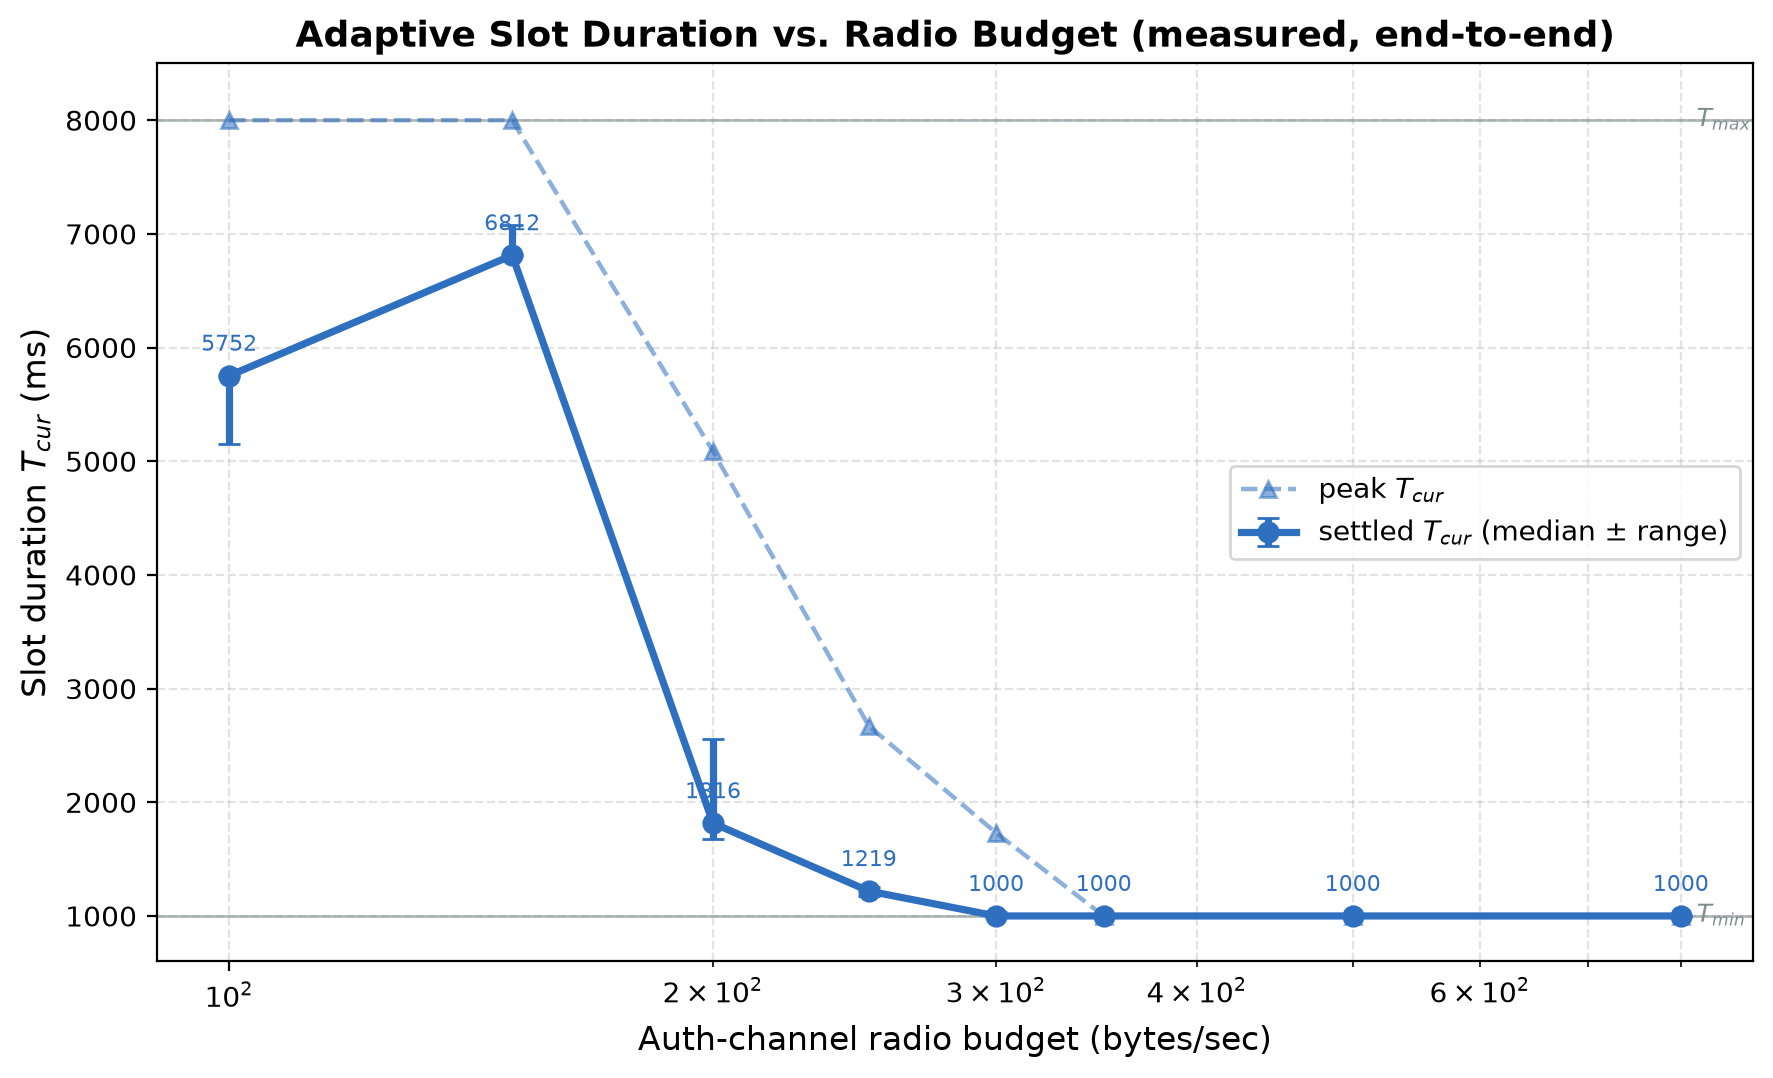
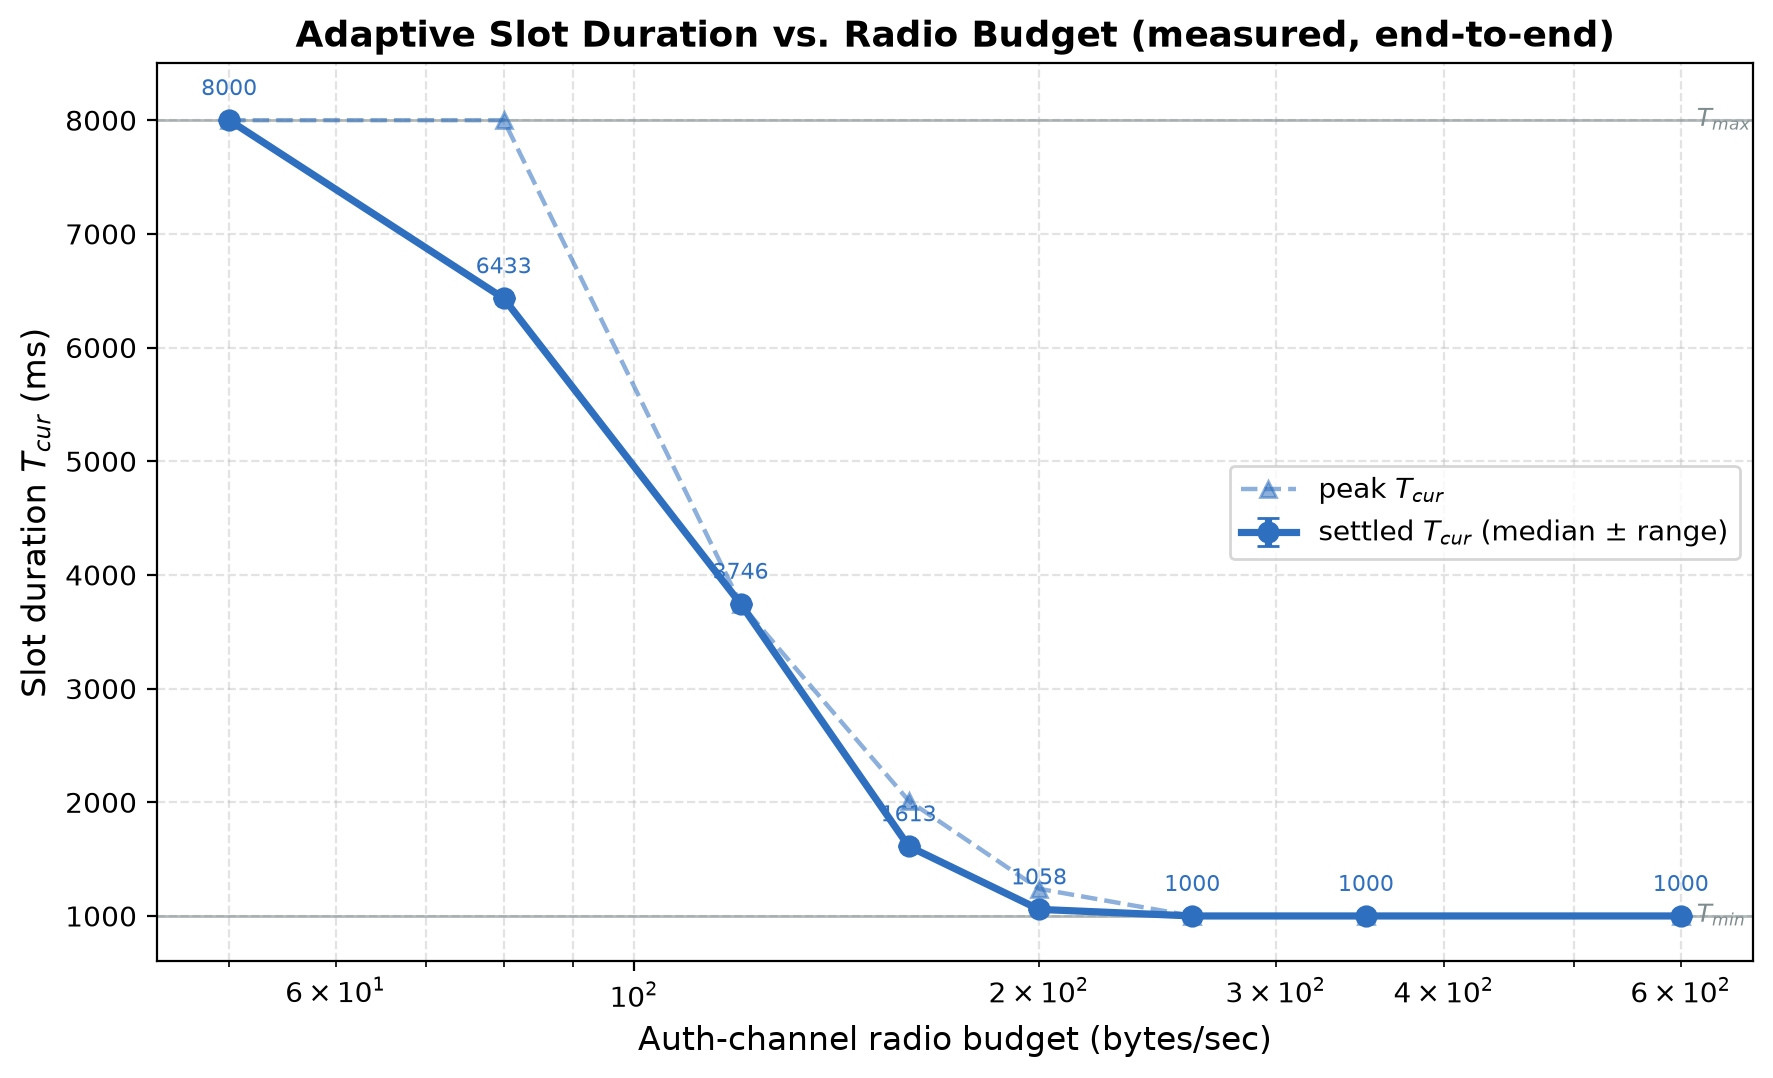
paper: refresh results for the HMAC-on-control-plane fix
Re-sweep after routing the HMAC onto the control plane and metering only the key
disclosure. Premature rejections are now zero at every budget (the 350 B/s
artifact is fixed, not just documented). The transition knee shifts to lower
budgets, so the sweep is re-run over 50-600 B/s: saturated <=80, proportional
120-200 (Tcur 3746->1058), idle >=260 at Tmin, backlog bounded near the target
except in saturation, verified degrading gracefully to a residue at the starved
end. Update Table I, Figs 1-4, the results prose and captions, the Implementation
section (disclosure-channel metering + HMAC control plane), and drop the
now-fixed congestion-knee limitation and its future-work item.

diff --git a/paper/prob-adaptive-inf-tesla.tex b/paper/prob-adaptive-inf-tesla.tex
@@ -396,14 +396,19 @@ bindings; all existing functions are untouched, so a non-adaptive deployment is
 unchanged.
 
 To characterize the controller against the resource whose overflow actually
-destroys authentication, the implementation models a shared but budget-limited
-radio. Authentication traffic (HMACs and key disclosures) is transmitted over a
-throttled path limited to a configurable byte rate, while application data is
-carried on an unthrottled plane; the throttle serializes authentication sends and
-blocks each for its modelled transmission time. This isolates the disclosure
-pipeline as the bottleneck the controller relieves and makes the radio budget the
-single independent variable, with no dependence on operating-system traffic
-shaping.
+destroys authentication, the implementation models a budget-limited radio and
+meters the \emph{key-disclosure} channel: each disclosure (the Bloom filter plus
+key, the bandwidth-heavy object whose loss is irrecoverable) is transmitted over
+a throttled path limited to a configurable byte rate, and the throttle serializes
+disclosure sends and blocks each for its modelled transmission time. The small
+per-slot batch-commitment HMAC and the application data ride an unthrottled
+control plane. Keeping the HMAC prompt matters for measurement fidelity: the
+receiver's timing guard (Theorem~1) starts its wall-clock
+stopwatch when it receives a batch's HMAC, so if the HMAC were queued behind a
+large disclosure it would arrive late and spuriously compress the observed
+HMAC-to-disclosure interval. Metering only the disclosure channel isolates the
+pipeline the controller relieves, makes the radio budget the single independent
+variable, and removes any dependence on operating-system traffic shaping.
 
 \subsection{Experimental Setup}
 Every measurement runs the complete system: a local Ethereum node, the consortium
@@ -414,7 +419,7 @@ traffic, so a single node exercises both the sender-side controller and the
 receiver-side checks.
 
 We sweep the authentication-channel radio budget $B$ (bytes/second) over
-$\{100,150,200,250,300,350,500,800\}$. For each budget the RCD runs for $90$\,s
+$\{50,80,120,160,200,260,350,600\}$. For each budget the RCD runs for $90$\,s
 at an application message rate of $50$\,msg/s, with $T_{\min}=1000$\,ms,
 $T_{\max}=8000$\,ms, disclosure delay $d=2$, target $C^{\ast}=0.5$, gain
 $\alpha=0.25$, capacity $Q_{\mathrm{cap}}=8$, and hash-chain length $512$. Each
@@ -429,17 +434,17 @@ slots, robust to the ramp and to the controller's limit cycle).
 \subsection{Slot Duration Tracks the Bottleneck}
 Figure~\ref{fig:slot} plots the steady-state and peak slot duration against the
 radio budget, and Table~\ref{tab:results} lists the values. Three regimes are
-visible. In the \emph{saturated} regime ($B\lesssim 150$\,B/s) the peak slot pins
-at the $T_{\max}=8000$\,ms ceiling: even the longest admissible slot cannot make
-the authentication path keep up. In the \emph{proportional} regime ($200\le B\le
-300$\,B/s) the slot duration falls monotonically as the budget grows---the
-controller sets a graded operating point, the direct evidence that the toggle
-responds to load. In the \emph{idle} regime ($B\gtrsim 300$\,B/s) the slot rests
-at the $T_{\min}=1000$\,ms floor, since the radio drains disclosures faster than
-slots produce them. The steady-state curve dips slightly below the peak at the two
-lowest budgets; this is a finite-run effect (at $8$\,s slots a $90$\,s run
-contains few control ticks), and the peak curve confirms both points reach the
-ceiling.
+visible. In the \emph{saturated} regime ($B\lesssim 80$\,B/s) the slot pins at the
+$T_{\max}=8000$\,ms ceiling: even the longest admissible slot cannot make the
+disclosure channel keep up. In the \emph{proportional} regime ($120\le B\le
+200$\,B/s) the slot duration falls monotonically and smoothly as the budget grows,
+from $3746$\,ms down to $1058$\,ms---the controller sets a graded operating point,
+the direct evidence that the toggle responds to load. In the \emph{idle} regime
+($B\gtrsim 260$\,B/s) the slot rests at the $T_{\min}=1000$\,ms floor, since the
+radio drains disclosures faster than slots produce them. The steady-state and peak
+curves nearly coincide, and the three independent runs at each budget agree to
+within a few percent (Table~\ref{tab:results} reports the medians), so the
+characteristic is stable and repeatable.
 
 \begin{figure}[t]
 \centering
@@ -452,13 +457,14 @@ when the budget is ample. Markers are medians of three runs; bars show the range
 \end{figure}
 
 \subsection{The Backlog Stays Bounded}
-Figure~\ref{fig:backlog} plots the disclosure backlog. For every budget at which
-authentication is viable, the backlog remains a small multiple of the controller
-target ($Q_{\mathrm{cap}}/2=4$) and well under the device buffer: the loop caps
-the queue instead of letting it grow without bound. Only at the starved end
-($B=100$\,B/s) does the backlog climb to $14$--$23$ objects, beyond
-$Q_{\mathrm{cap}}$, because no slot length can balance production and drainage
-there. That point marks the protocol's stability boundary.
+Figure~\ref{fig:backlog} plots the disclosure backlog. Across the proportional and
+idle regimes the backlog holds right at the controller target
+($Q_{\mathrm{cap}}/2=4$) or below, well under the device buffer: the loop caps the
+queue instead of letting it grow without bound. Only in the saturated regime
+($B\le 80$\,B/s) does the backlog climb past $Q_{\mathrm{cap}}$ (to $10$--$12$
+objects), because no slot length can balance production and drainage there. The
+knee near $80$--$120$\,B/s therefore marks the protocol's stability boundary:
+to its right the queue is controlled, to its left it overflows.
 
 \begin{figure}[t]
 \centering
@@ -470,26 +476,26 @@ at the starved $100$\,B/s point, where even $T_{\max}$ cannot drain it.}
 \end{figure}
 
 \subsection{Authentication Survives to a Budget Floor}
-Figure~\ref{fig:verif} reports receiver outcomes. Above the stability boundary,
-verification is healthy (hundreds of messages per run at $500$--$800$\,B/s). As
-the budget tightens through the transition the verified count declines but stays
-positive, and at the starved $100$\,B/s point it collapses to zero: the
-authentication path is so throttled that disclosures cannot reach the receiver
-within its timing window, which is exactly the permanent-loss failure the fixed
-timer cannot avoid. Premature rejections are negligible everywhere except a single
-spike at $350$\,B/s; as explained in Section~\ref{sec:discussion} this reflects the
-receiver's wall-clock timing guard correctly rejecting disclosures that the
-marginally provisioned authentication channel delivered too close to their HMACs,
-not a forgery.
+Figure~\ref{fig:verif} reports receiver outcomes. Above the stability boundary
+verification is healthy---hundreds of messages per run at $260$--$600$\,B/s. As
+the budget tightens through the transition the verified count declines
+monotonically and, in the saturated regime, degrades sharply to a small residue
+($15$--$17$ messages per run at $50$--$80$\,B/s): the disclosure channel is so
+throttled that most batches' evidence cannot reach the receiver within its timing
+window, which is the permanent-loss failure the fixed timer cannot avoid.
+Premature rejections are \emph{zero at every budget}: because the batch HMAC is
+delivered promptly on the control plane, the receiver's wall-clock timing guard
+sees each key disclosure at the intended $d$-slot spacing and never mistakes an
+honest disclosure for an early one.
 
 \begin{figure}[t]
 \centering
 \includegraphics[width=\columnwidth]{figures/fig_verification.png}
 \caption{Receiver verification outcomes versus radio budget. Verified messages are
-plentiful when the budget is ample, decline through the transition, and vanish at
-the starved end; premature rejections are negligible except at the marginal
-$350$\,B/s knee, where the shared throttled channel delivers key disclosures too
-close to their HMACs and the receiver's timing guard rejects them.}
+plentiful when the budget is ample, decline through the transition, and drop to a
+small residue at the starved end; premature rejections are zero at every budget,
+since the promptly-delivered control-plane HMAC keeps the receiver's timing
+reference undistorted.}
 \label{fig:verif}
 \end{figure}
 
@@ -524,14 +530,14 @@ run).}
 \toprule
 $B$ (B/s) & settled $T$ & peak $T$ & settled $Q$ & peak $Q$ & verified & premature \\
 \midrule
-100 & 5752 & 8000 & 14.0 & 23 & 0   & 0  \\
-150 & 6812 & 8000 & 9.0  & 15 & 25  & 0  \\
-200 & 1816 & 5086 & 1.5  & 11 & 42  & 0  \\
-250 & 1219 & 2671 & 5.0  & 8  & 42  & 0  \\
-300 & 1000 & 1731 & 4.0  & 6  & 50  & 0  \\
-350 & 1000 & 1000 & 1.0  & 2  & 44  & 68 \\
-500 & 1000 & 1000 & 1.0  & 2  & 384 & 1  \\
-800 & 1000 & 1000 & 2.0  & 2  & 378 & 1  \\
+50  & 8000 & 8000 & 10.0 & 12 & 17  & 0 \\
+80  & 6433 & 8000 & 7.0  & 9  & 15  & 0 \\
+120 & 3746 & 3746 & 4.0  & 8  & 44  & 0 \\
+160 & 1613 & 2014 & 4.0  & 6  & 66  & 0 \\
+200 & 1058 & 1239 & 4.0  & 5  & 102 & 0 \\
+260 & 1000 & 1000 & 1.0  & 2  & 374 & 0 \\
+350 & 1000 & 1000 & 1.0  & 2  & 391 & 0 \\
+600 & 1000 & 1000 & 2.0  & 2  & 369 & 0 \\
 \bottomrule
 \end{tabular}
 \end{table}
@@ -582,20 +588,6 @@ $L_{\mathrm{base}}$ per device, is future work. Because $D_i$ is exactly the
 signal whose overflow destroys authentication, the single-factor prototype is
 sufficient to demonstrate the mechanism.
 
-\textbf{Congestion-knee disclosure bunching.} The receiver enforces timing safety
-on its own wall clock, rejecting any disclosure that arrives less than
-$d\,T_{\min}-\delta_{\mathrm{net}}$ after the corresponding HMAC (Theorem~1). At
-the marginal budget ($350$\,B/s) the single throttled channel shared by HMACs and
-disclosures runs at its sustainable floor and intermittently transmits a batch's
-HMAC and its key disclosure back-to-back rather than a slot apart; the receiver
-then sees the two arrive too close together and the guard fires, producing the
-isolated premature-rejection spike. This is a testbed artifact of sharing one
-throttled channel between the two message types, with the security check behaving
-exactly as intended, not a forgery or a slot-timing error. Pacing HMACs and their
-disclosures onto separate sub-budgets so the channel cannot bunch them would
-remove the spike; we leave this to future work and report results with the
-artifact present.
-
 \textbf{Finite-run steady state.} At the lowest budgets the slot is several
 seconds long, so a $90$\,s run contains only a handful of control decisions and
 the slot is still climbing toward the ceiling when the run ends. The steady-state
@@ -635,13 +627,11 @@ genuinely scarce.
 
 %==============================================================================
 \section{Future Work}
-Future work includes pacing HMACs and key disclosures onto separate sub-budgets to
-remove the congestion-knee rejection artifact and repeating the budget sweep;
-adding a direct comparison against fixed-slow and fixed-fast baselines and a
-secondary open-loop packet-loss axis; instrumenting the latency term $B_i$ and
-calibrating it per device; extending the evaluation to an independent multi-node
-testbed; and developing a receiver-enforced real-time bound with a machine-checked
-timing-safety proof in TLA+ or Tamarin.
+Future work includes adding a direct comparison against fixed-slow and fixed-fast
+baselines and a secondary open-loop packet-loss axis; instrumenting the latency
+term $B_i$ and calibrating it per device; extending the evaluation to an
+independent multi-node testbed; and developing a receiver-enforced real-time bound
+with a machine-checked timing-safety proof in TLA+ or Tamarin.
 
 %==============================================================================
 \begin{thebibliography}{00}
